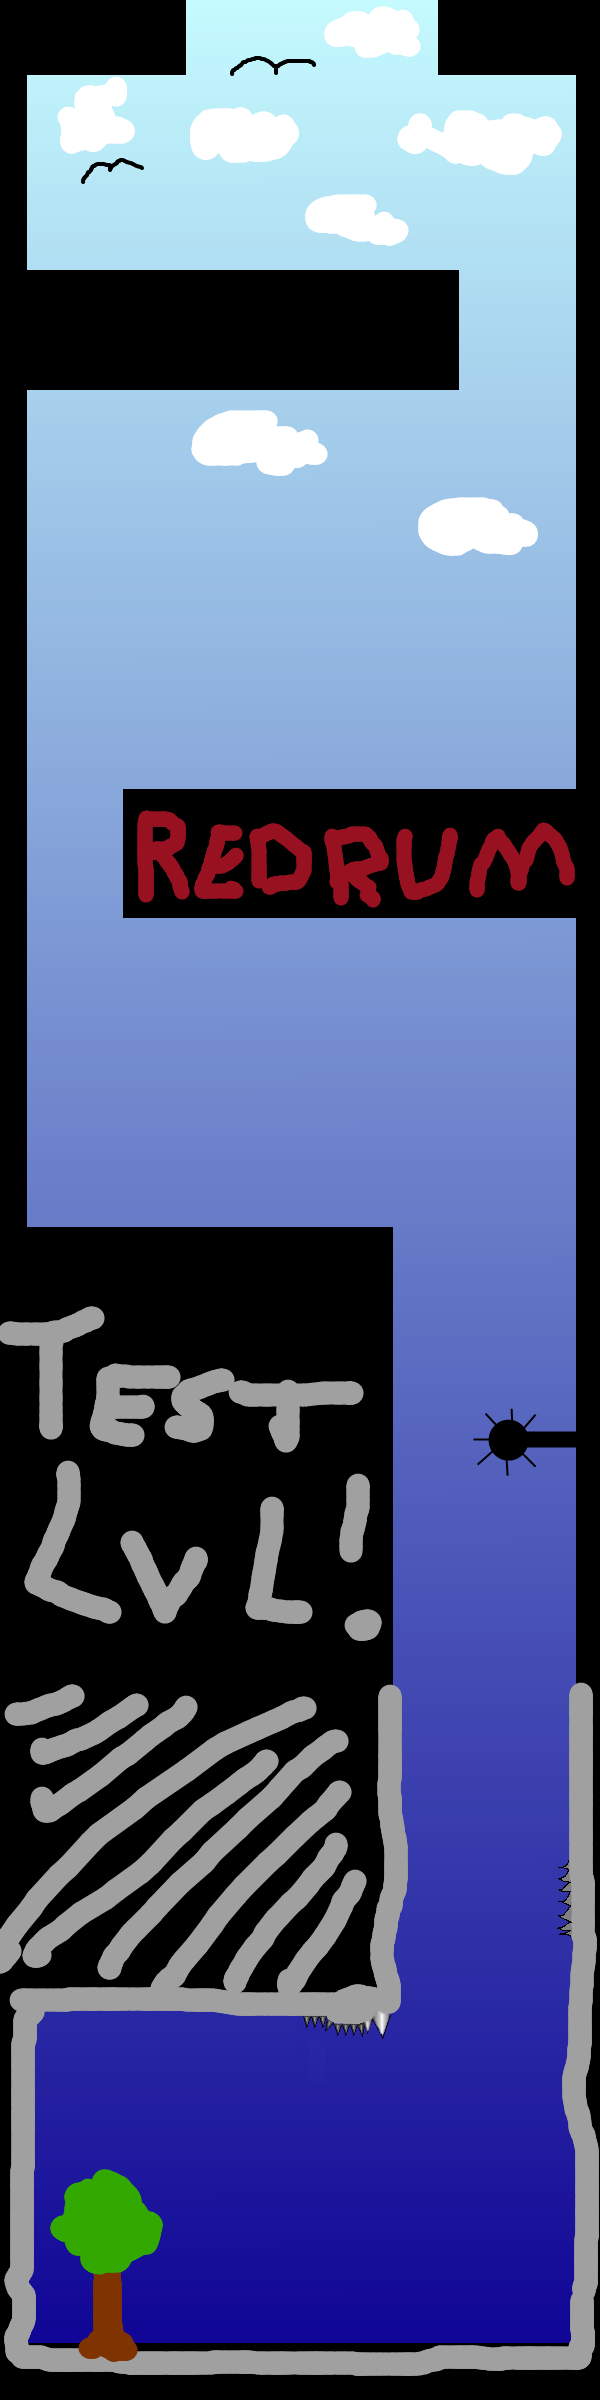
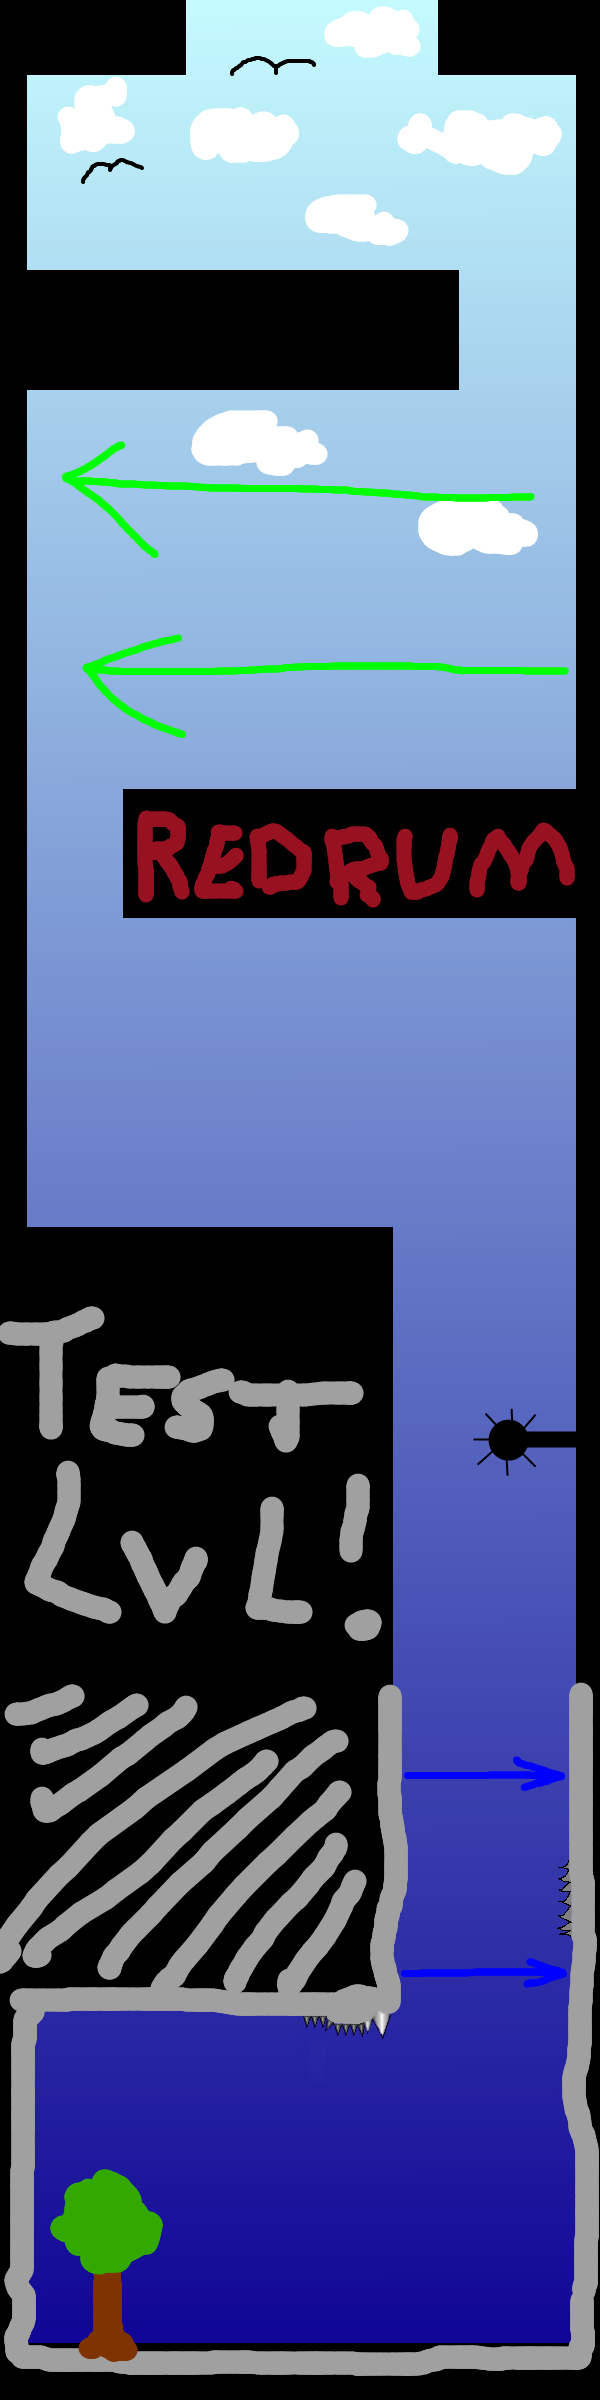
first attempt at wind generation.

diff --git a/lib/level.py b/lib/level.py
@@ -74,6 +74,7 @@ class Level(object):
 
         self.wind_left = hex_val(kv["wind_left"])
         self.wind_right = hex_val(kv["wind_right"])
+        self.wind = (self.wind_left, self.wind_right)
 
     def __str__(self):
         return "[Level \"%s\": 0x%06x/0x%06x (%d, %d)]" % (
@@ -96,6 +97,8 @@ class Level(object):
     def check_area(self, rect):
         contents = self.background
 
+        # TODO: this check should be dealt with by designing the levels to
+        # be surrounded by solid areas except where the player can escape.
         if (   rect.left < 0
              or rect.right >= self.bg_rect.width
              or rect.top < 0
@@ -110,13 +113,24 @@ class Level(object):
 
         return contents
 
+    def check_wind_point(self, x, y, contents):
+        if contents in self.wind:
+            return contents
 
-def bound_view(level, view):
-    y = view[1]
-    top = 0
-    bottom = -(level.bg_rect.h - 480)
-    if y < bottom:
-        y = bottom
-    if y > top:
-        y = top
-    view[1] = y
+        col = self.bg.get_at((x,y))
+        col_as_int = (col[0] * 256 * 256) + (col[1] * 256) + col[2]
+        if col_as_int in self.wind:
+            return col_as_int
+        else:
+            return contents
+
+    def check_wind(self, rect):
+        contents = self.background
+
+        # Just check the four corners for speed
+        contents = self.check_wind_point(rect.left,  rect.top,    contents)
+        contents = self.check_wind_point(rect.right, rect.top,    contents)
+        contents = self.check_wind_point(rect.left,  rect.bottom, contents)
+        contents = self.check_wind_point(rect.right, rect.bottom, contents)
+
+        return contents

diff --git a/lib/sprite.py b/lib/sprite.py
@@ -37,6 +37,7 @@ class Sprite(pygame.sprite.Sprite):
         self.collide_speed = 1.0
         self.on_ground     = False
         self.dead          = False
+        self.in_wind       = None
 
     def alive(self):
         return not self.dead
@@ -95,6 +96,8 @@ class Sprite(pygame.sprite.Sprite):
         if self.dead:
             raise Exception("move called on dead sprite [%r]" % self)
 
+        self.apply_wind_force()
+
         old_velocity = self.velocity.copy()
         old_position = self.position.copy()
 
@@ -143,6 +146,14 @@ class Sprite(pygame.sprite.Sprite):
             reference[0] += drag
         else:
             reference[0] -= drag
+
+    def apply_wind_force(self):
+        if self.in_wind:
+            if self.in_wind == self.level.wind_left:
+                self.velocity[0] += -7.0
+            elif self.in_wind == self.level.wind_right:
+                self.velocity[0] += 7.0
+        self.in_wind = None
 
     def set_position(self, new_pos):
         self.position[0] = new_pos[0]
@@ -197,7 +208,7 @@ class Balloon(Sprite):
         return rect
 
     def pop(self):
-        assert not self.popped
+        if self.popped: return
         self.popped = True
         self.pop_timer = 0.05 * len(Balloon.pop_frames)
         self.set_anim_list(Balloon.pop_frames)
@@ -209,9 +220,12 @@ class Balloon(Sprite):
            return True
        elif hit == self.level.solid:
            return True
-       else:
-           return False
 
+       wind_hit = self.level.check_wind(self.get_body_rect())
+       if wind_hit in self.level.wind:
+           self.in_wind = wind_hit
+
+       return False
 
 class Emitter(Sprite):
     frames = None

diff --git a/lib/player.py b/lib/player.py
@@ -61,6 +61,10 @@ class Player(Sprite):
             elif bunch_hit == self.level.spike:
                 self.pop_balloons()
 
+            wind_hit = self.level.check_wind(bunch_rect)
+            if wind_hit in self.level.wind:
+                self.in_wind = wind_hit
+
         return self.level.check_area(rect) == self.level.solid
 
     def check_balloons(self, sprite_list):
